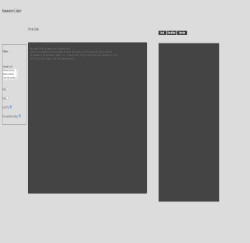
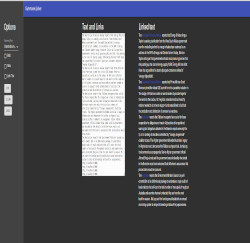
Added Pathfinders site

diff --git a/src/portfolioData.js b/src/portfolioData.js
@@ -4,14 +4,20 @@ import MP2 from './images/MPImp-2.jpg'
 import MP2Thumb from './images/MPImp-2-Thumb.jpg'
 import MP3 from './images/MPImp-3.jpg'
 import MP3Thumb from './images/MPImp-3-Thumb.jpg'
-import Pics1 from './images/Pics1.jpg'
-import Pics1Thumb from './images/Pics1-Thumb.jpg'
-import Pics2 from './images/Pics2.jpg'
-import Pics2Thumb from './images/Pics2-Thumb.jpg'
-import Pics3 from './images/Pics3.jpg'
-import Pics3Thumb from './images/Pics3-Thumb.jpg'
-import Pics4 from './images/Pics4.jpg'
-import Pics4Thumb from './images/Pics4-Thumb.jpg'
+import MP4 from './images/MPImp-4.jpg'
+import MP4Thumb from './images/MPImp-4-Thumb.jpg'
+import MP5 from './images/MPImp-5.jpg'
+import MP5Thumb from './images/MPImp-4-Thumb.jpg'
+import Aghs1 from './images/Aghs1.jpg'
+import Aghs1Thumb from './images/Aghs1-Thumb.jpg'
+import Aghs2 from './images/Aghs2.jpg'
+import Aghs2Thumb from './images/Aghs2-Thumb.jpg'
+import Aghs3 from './images/Aghs3.jpg'
+import Aghs3Thumb from './images/Aghs3-Thumb.jpg'
+import Aghs4 from './images/Aghs4.jpg'
+import Aghs4Thumb from './images/Aghs4-Thumb.jpg'
+import Aghs5 from './images/Aghs5.jpg'
+import Aghs5Thumb from './images/Aghs5-Thumb.jpg'
 import Linker1 from './images/Linker1.jpg'
 import Linker1Thumb from './images/Linker1-Thumb.jpg'
 import Linker2Thumb from './images/Linker2-Thumb.jpg'
@@ -26,8 +32,48 @@ import Calc1Thumb from './images/Calc1-Thumb.jpg'
 
 const Data = [
     {
+        title: 'Aghanim\'s Pathfinders Guides',
+        images: [
+            {
+                original: Aghs1,
+                thumbnail: Aghs1Thumb
+            },
+            {
+                original: Aghs2,
+                thumbnail: Aghs2Thumb
+            },
+            {
+                original: Aghs3,
+                thumbnail: Aghs3Thumb
+            },
+            {
+                original: Aghs4,
+                thumbnail: Aghs4Thumb
+            },
+            {
+                original: Aghs5,
+                thumbnail: Aghs5Thumb
+            }
+        ],
+        text: 'A website for a popular mod for Dota 2, Aghanim’s Pathfinders. The mod re-adds a PvE mode\
+        the game featured recently; the site hosts guides for the various heroes, covering itemisation, \
+        levelling and shards (permanent upgrades for your hero). The website was created with React and \
+        styled with CSS3. The backend is powered by Node.JS and GraphQL and the data is hosted on MongoDB. \
+        As this is a recent creation of mine, many heroes are missing guides at the moment.',
+        live: 'https://mick666.github.io/aghs-pathfinders-guides/',
+        source: 'https://github.com/Mick666/aghs-pathfinders-guides'
+    },
+    {
         title: 'Mediaportal Improvements',
         images: [
+            {
+                original: MP4,
+                thumbnail: MP4Thumb
+            },
+            {
+                original: MP5,
+                thumbnail: MP5Thumb
+            },
             {
                 original: MP1,
                 thumbnail: MP1Thumb
@@ -48,33 +94,6 @@ const Data = [
             bug we were experiencing.\n',
         live: 'https://chrome.google.com/webstore/detail/mp-improvements/fehdcpnecldplanhfcmhcanpagpmljmo',
         source: 'https://github.com/Mick666/Media-Plugin'
-    },
-    {
-        title: 'Pics Be Gone',
-        images: [
-            {
-                original: Pics1,
-                thumbnail: Pics1Thumb
-            },
-            {
-                original: Pics2,
-                thumbnail: Pics2Thumb
-            },
-            {
-                original: Pics3,
-                thumbnail: Pics3Thumb
-            },
-            {
-                original: Pics4,
-                thumbnail: Pics4Thumb
-            }
-        ],
-        text: 'A simpler Chrome extension I made to assist with productivity during a cybersecurity incident\
-        at iSentia, which trims down the websites of the national and capital city daily websites. \
-        The extension removes all visual elements in a story and prefixes the first paragraph with\
-        metadata needed to create a full text PDF of the article',
-        live: 'https://chrome.google.com/webstore/detail/pictures-be-gone/nenokcimcmfhbiagecnldfihogiebfde',
-        source: 'https://github.com/Mick666/Pics-be-gone'
     },
     {
         title: 'Summary Linker',

diff --git a/src/components/About.js b/src/components/About.js
@@ -5,7 +5,9 @@ const About = () => {
 
     const aboutText = 'My name is Michael Martino and I\'m a Web Developer.\
     My passion is programming, especially when creating new ways to make people\'s lives easier (be it with\
-    websites or extensions), and I have pursued it as a new career for the past 18 months.'
+    websites or extensions), and I have pursued it as a new career for the past 18 months. I have been working with\
+    the developers at iSentia to improve our main platform, Mediaportal, and was awarded iSentia\'s Q1 award for innovation\
+    for my work.'
     const aboutTextPara2 = 'I have experience with JS and several popular JS libraries, including React and Node.\
     I also have experience with Typescript and Ruby.'
 
